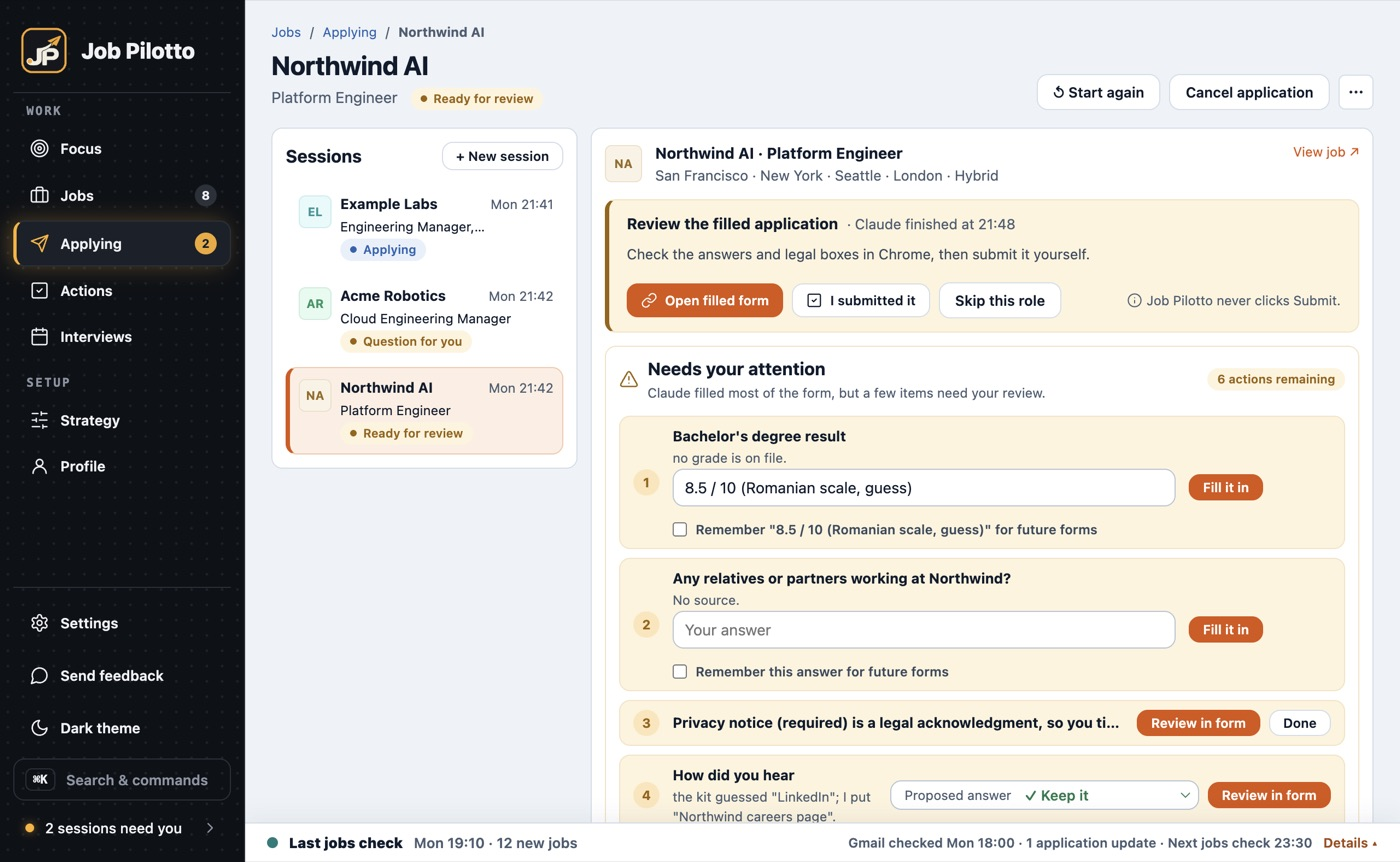
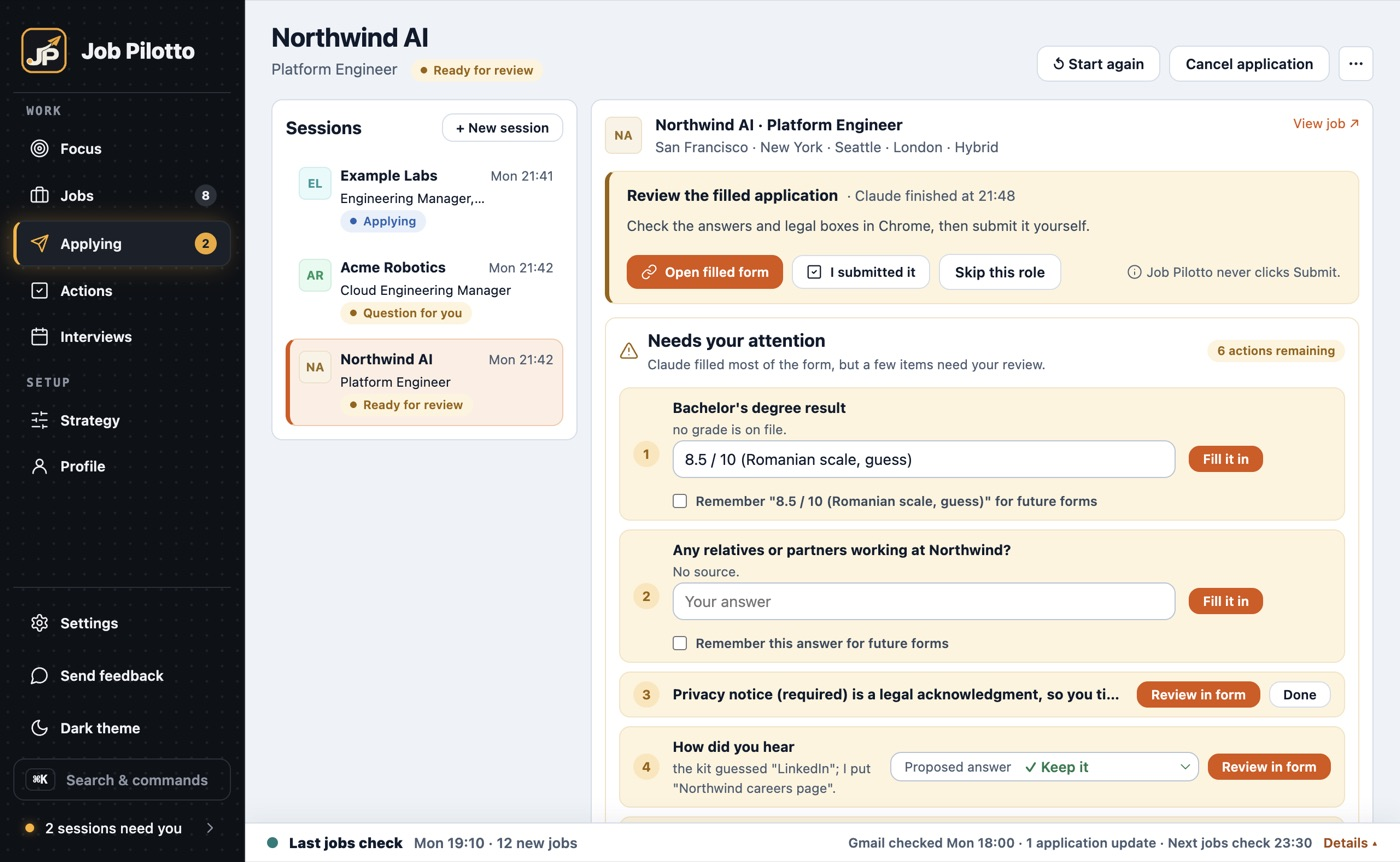
Session page: drop the breadcrumb ("Jobs / Applying / Canonical") — the h1 right under it already names the company, and the sidebar and the sessions dock are the ways back; nothing else used .crumbs
The sessions view was its only user, so the nav, the two listeners it needed (ss-crumb, ss-crumb-all, .crumbs [data-go]) and the .crumbs rules go together.

Changed region(s): [[0.43, 0.0603, 0.9829, 0.9652], [0.1843, 0.0302, 0.3993, 0.5429]]

diff --git a/desktop/renderer/style.css b/desktop/renderer/style.css
@@ -1023,8 +1023,6 @@ main { min-width: 0; }
 @media (max-width: 1180px) { .sd-cards { grid-template-columns: 1fr; } }
 
 /* The session page: sessions on the left; the job, Claude's question, the live terminal and the message box */
-.crumbs { display: flex; align-items: center; gap: var(--sp-2); color: var(--muted); margin-bottom: var(--sp-2); }
-.crumbs a { color: var(--info); text-decoration: none; }
 .ss-title h1 { margin: 0; }
 .ss-subtitle { display: flex; align-items: center; gap: var(--sp-3); flex-wrap: wrap; margin-top: var(--sp-1); font-size: var(--fs-base); }
 .ss-grid { display: grid; grid-template-columns: 280px minmax(0, 1fr); gap: var(--sp-3); align-items: start; }

diff --git a/desktop/renderer/pages/session-needs.js b/desktop/renderer/pages/session-needs.js
@@ -395,7 +395,5 @@ export async function init() {
     renderDock();
   });
   $('sd-all').addEventListener('click', event => { event.preventDefault(); openSession(shared.openSessionId || sessionList[0]?.id); });
-  $('ss-crumb-all').addEventListener('click', event => { event.preventDefault(); openSession(shared.openSessionId || sessionList[0]?.id); });
-  document.querySelectorAll('.crumbs [data-go]').forEach(link => link.addEventListener('click', event => { event.preventDefault(); openView(link.dataset.go); }));
   $('ss-new').addEventListener('click', () => openView('jobs'));
 }

diff --git a/desktop/renderer/pages/session-log.js b/desktop/renderer/pages/session-log.js
@@ -42,7 +42,6 @@ export function renderSessionPage() {
   }));
   if (!item) return;
   const [label, tone] = sessionState(item);
-  $('ss-crumb').textContent = sessionCompany(item);
   $('ss-title').textContent = sessionCompany(item);
   $('ss-role').textContent = sessionTitle(item);
   $('ss-status').replaceChildren(pill(sessionReview(item) && tone !== 'good' ? 'Ready for review' : label, tone, {dot: true}));

diff --git a/desktop/renderer/index.html b/desktop/renderer/index.html
@@ -418,7 +418,6 @@
     </div>
 
     <div class="view" data-view="sessions" hidden>
-      <nav class="crumbs small"><a href="#" data-go="jobs">Jobs</a><span>/</span><a href="#" id="ss-crumb-all">Applying</a><span>/</span><b id="ss-crumb"></b></nav>
       <header class="view-head">
         <div class="ss-title">
           <h1 id="ss-title">Application sessions</h1>
